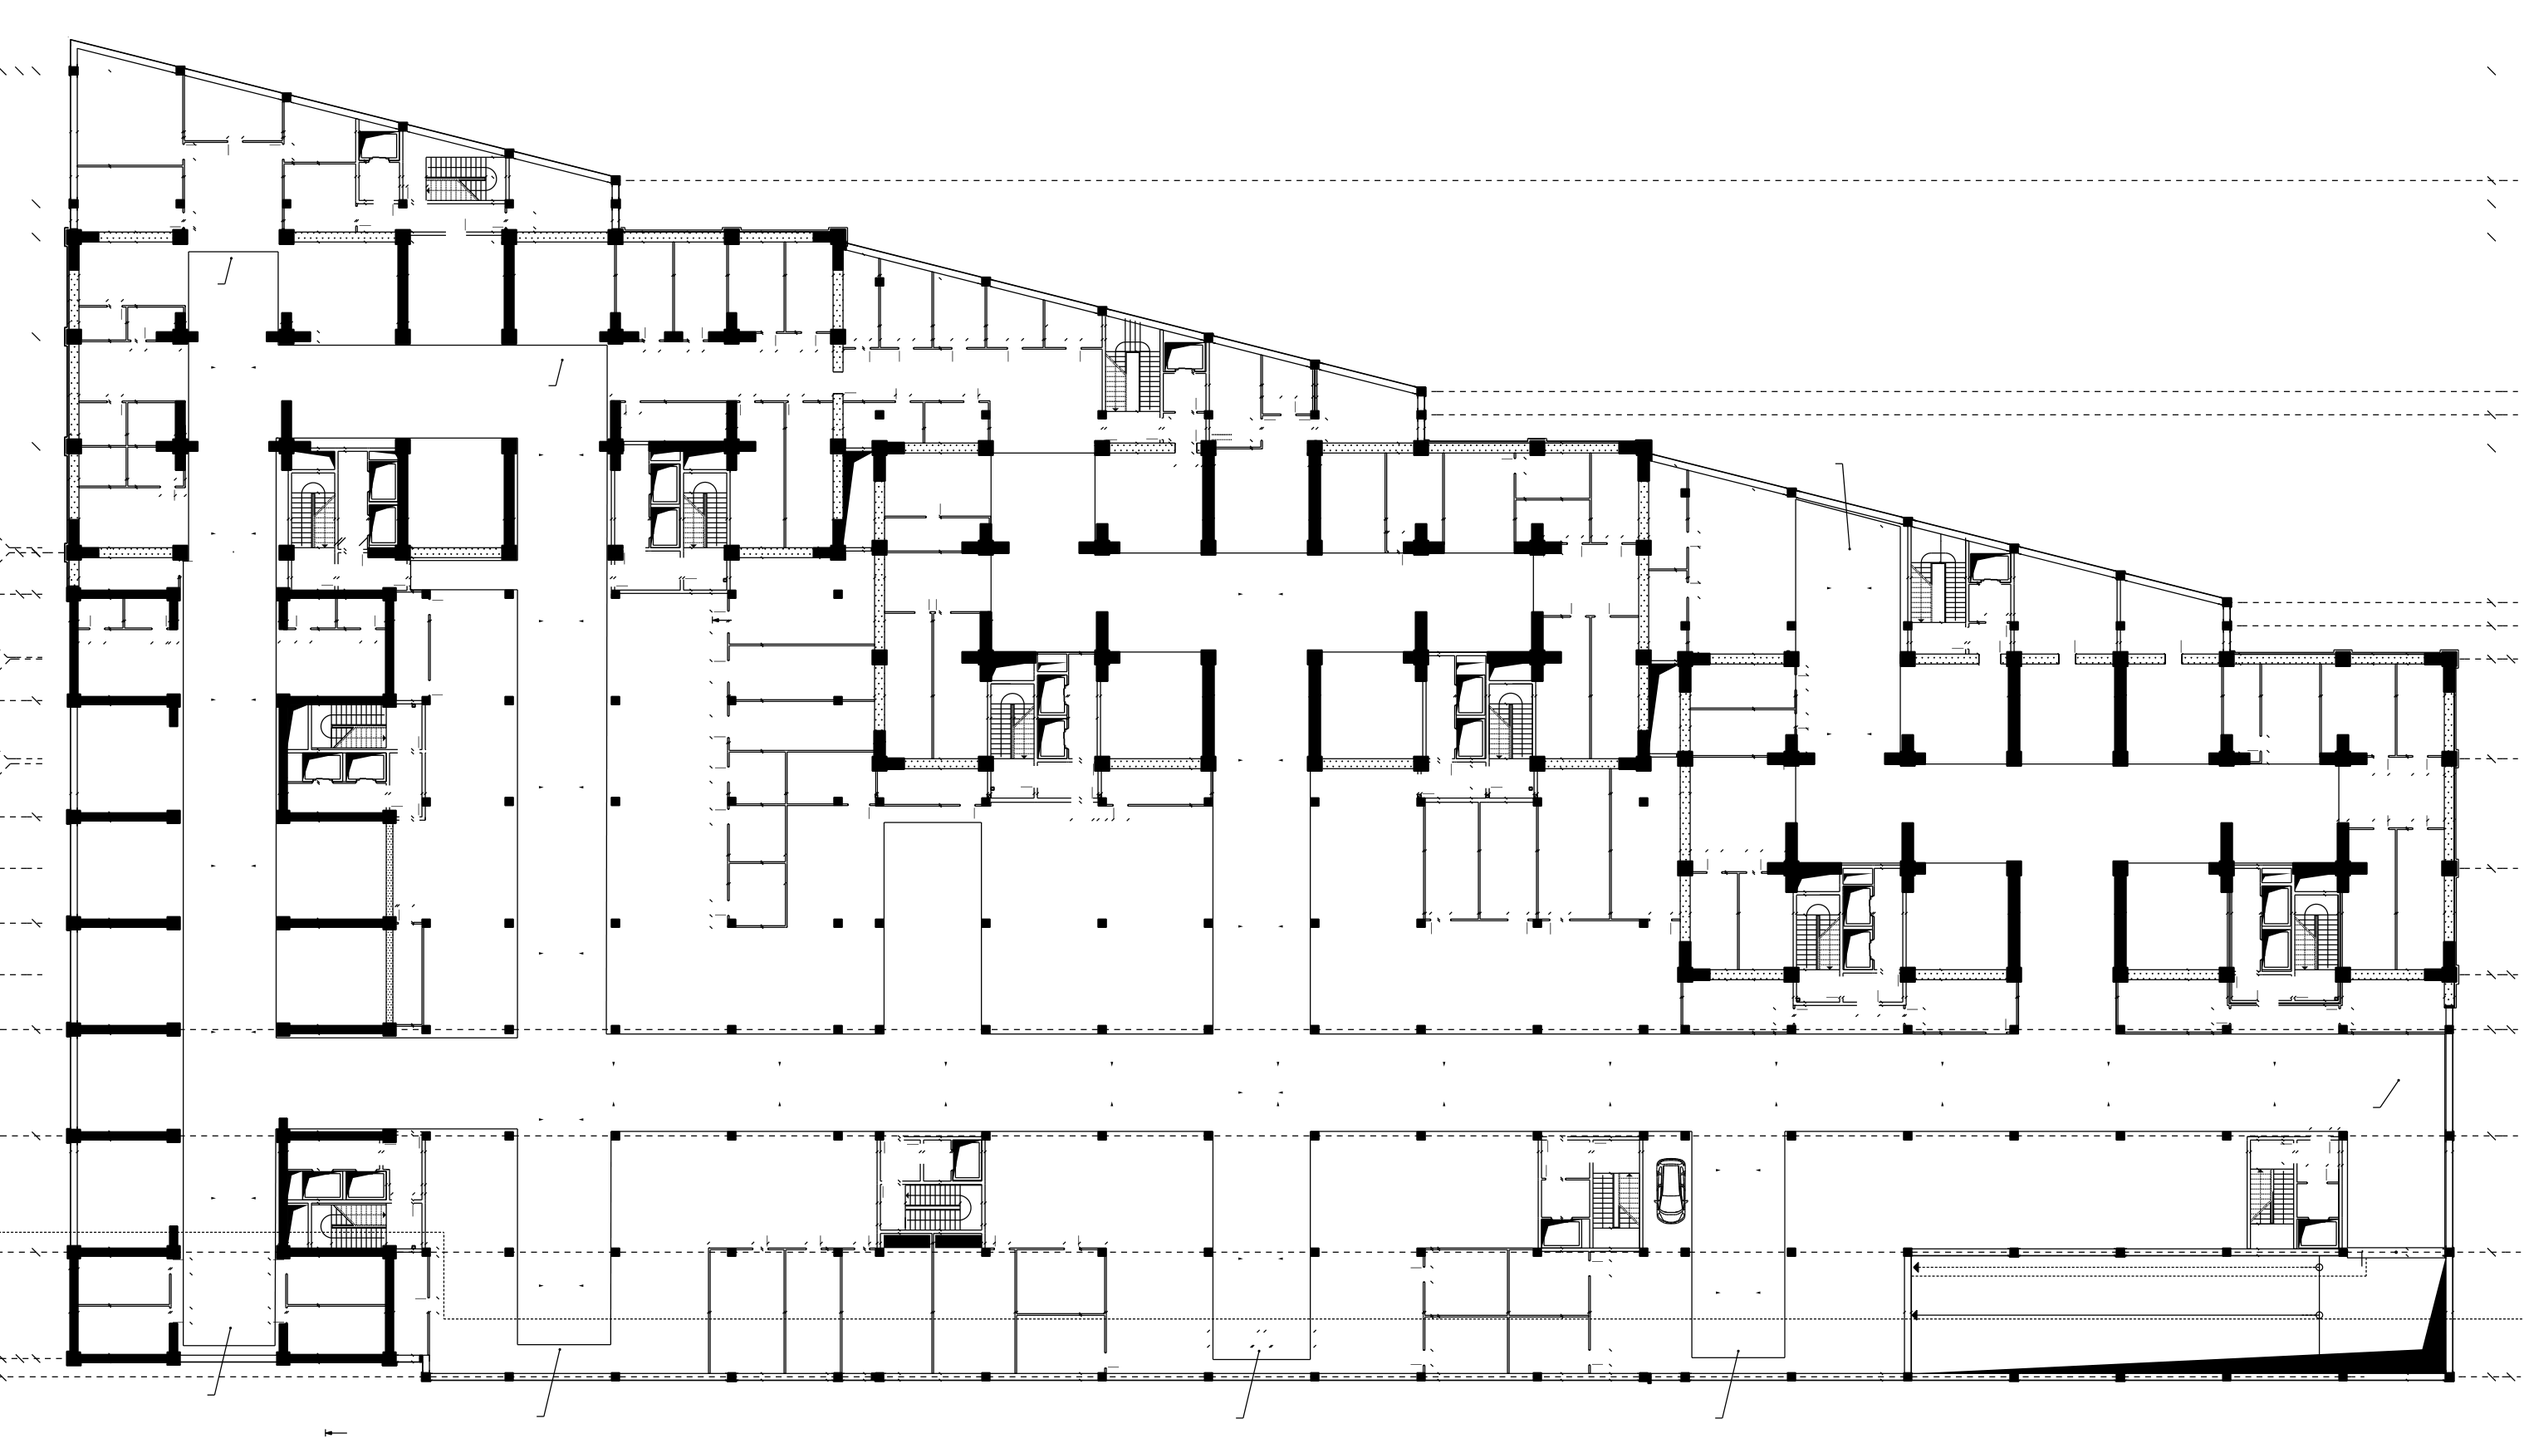
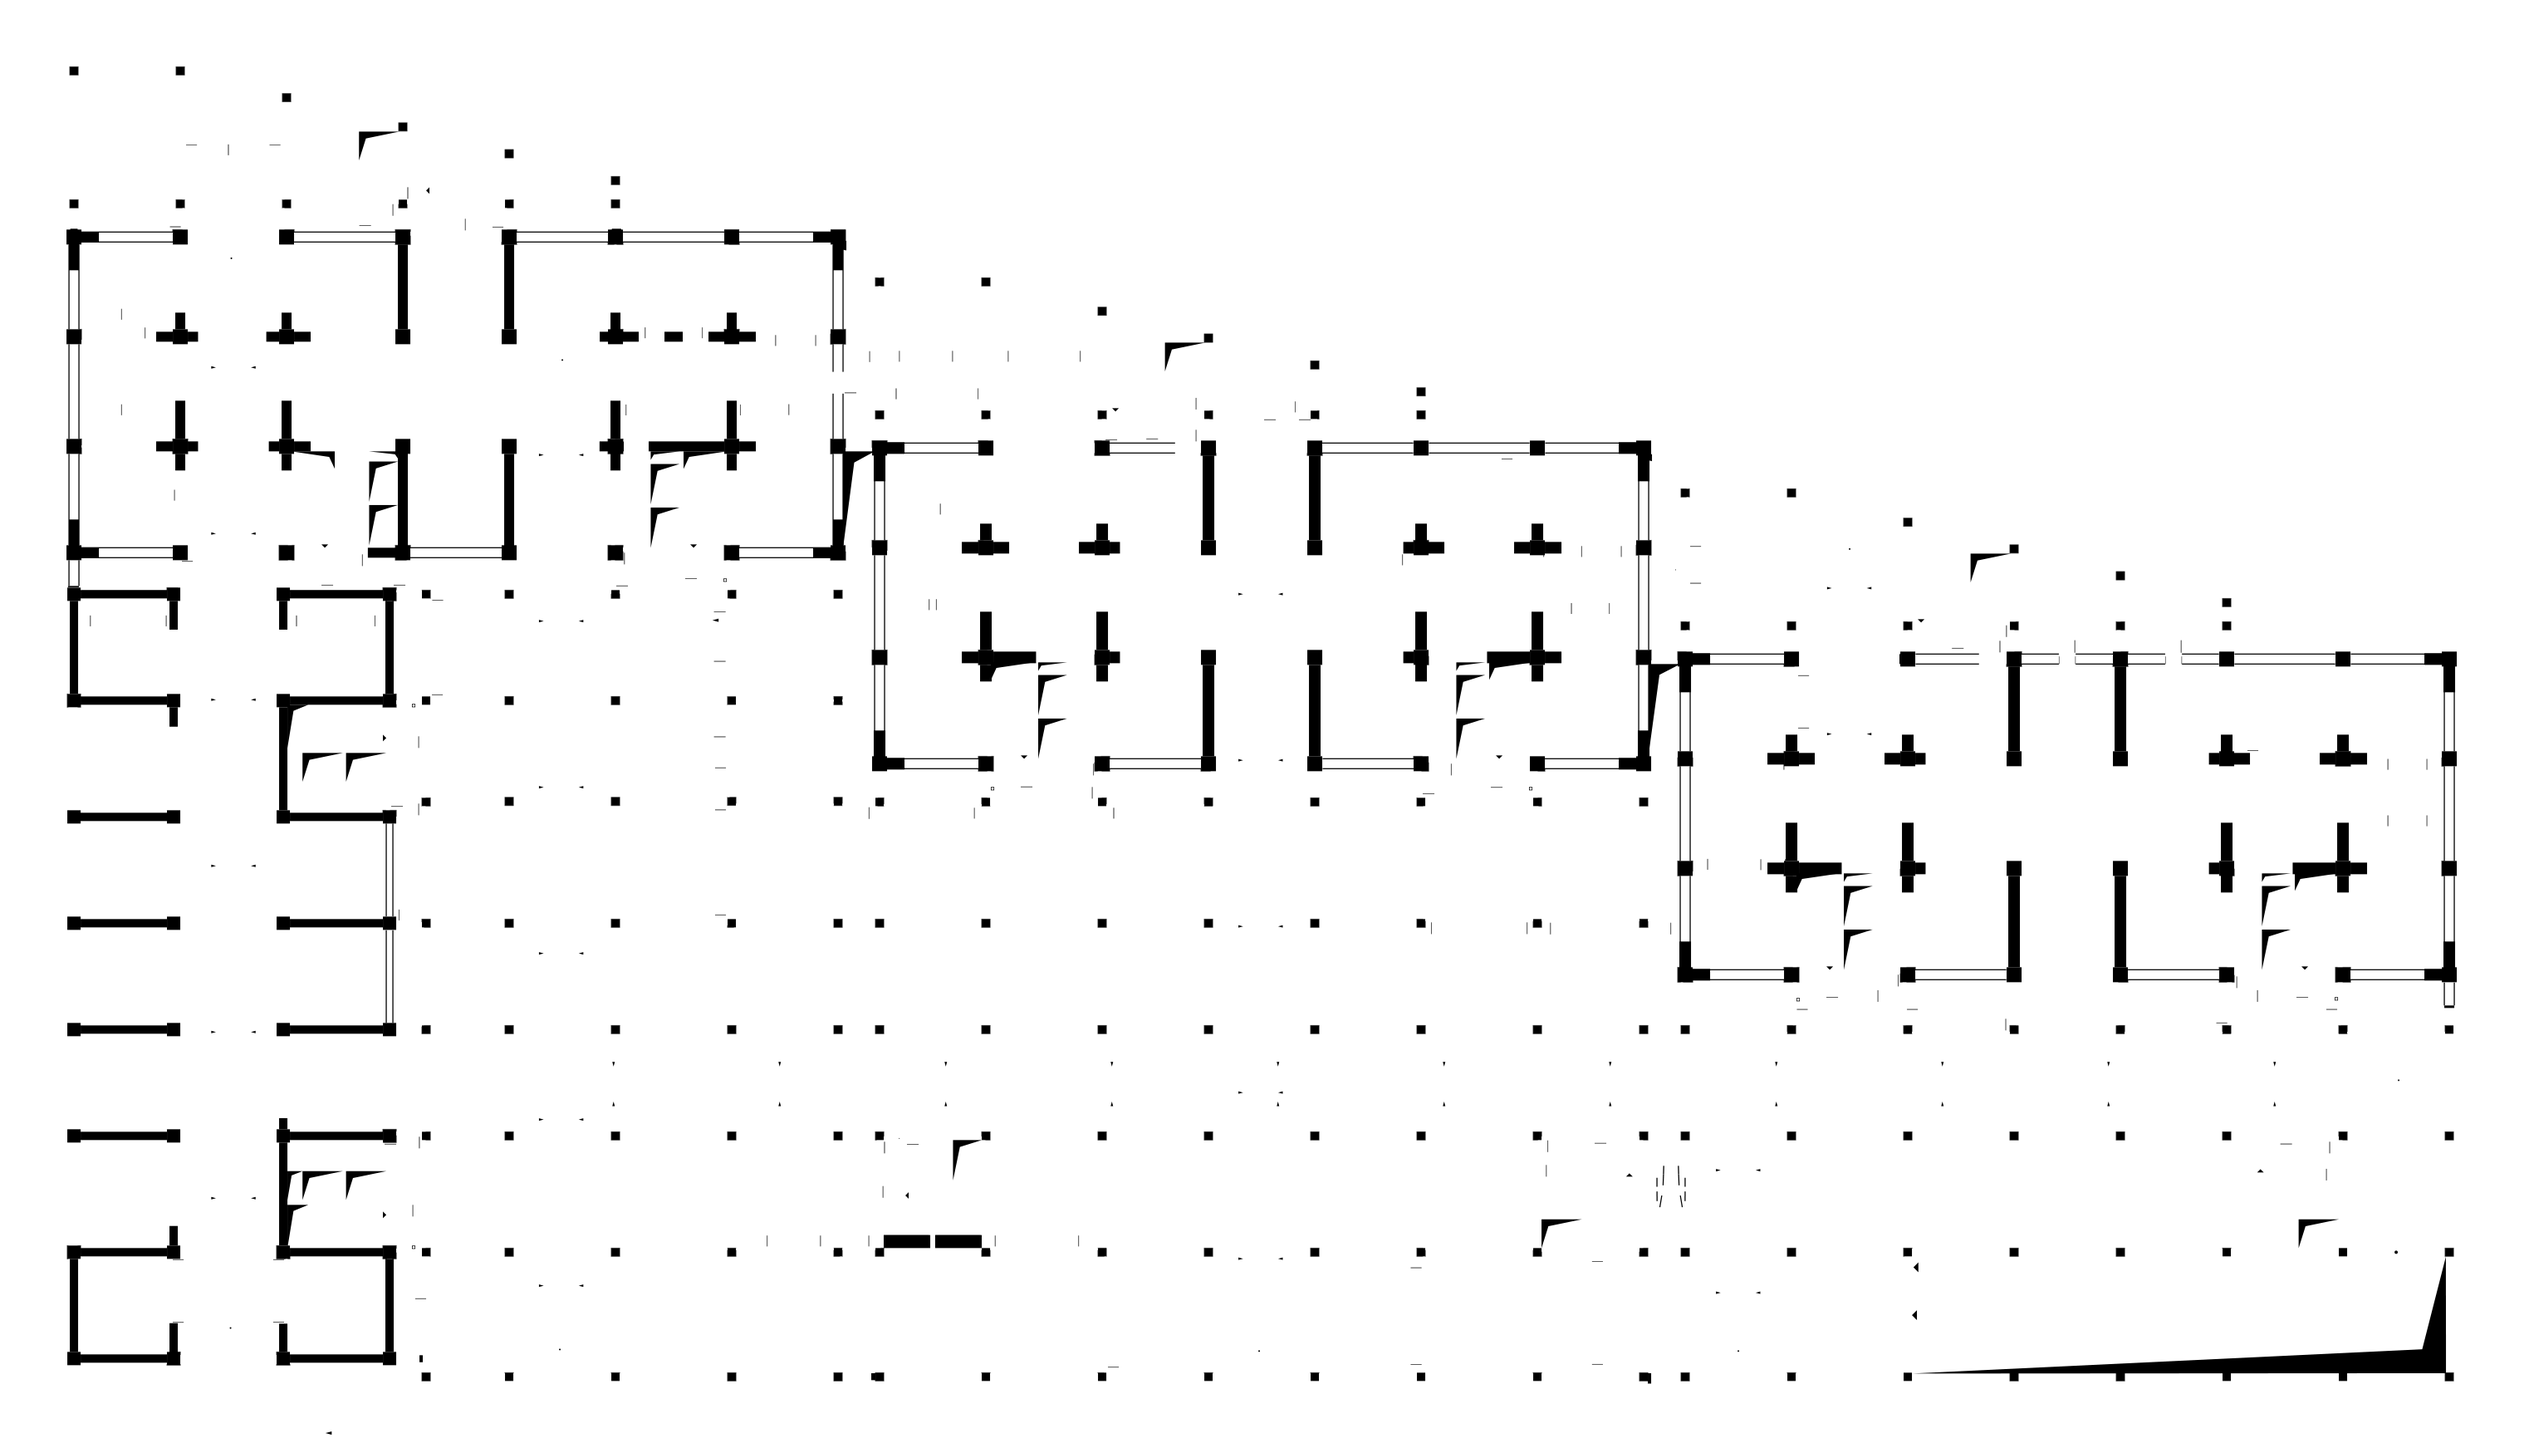
Прогулка по паркингу и коммерции: стены только из реальных элементов чертежа (без пунктира, осей, размеров), витражи — отдельным стеклом только в проёмах, машины на местах по проекту паркинга

diff --git a/site/js/floortour.js b/site/js/floortour.js
@@ -90,8 +90,8 @@
     msg.textContent = `Загружаю: ${L.name}…`; msg.hidden = false;
     F.root.querySelectorAll('[data-l]').forEach((b) => b.classList.toggle('on', b.dataset.l === id));
     const me = F;
-    let plan, maskImg, glassImg = null;
-    try { [plan, maskImg, glassImg] = await Promise.all([loadImg(L.img), loadImg(L.mask), L.glass ? loadImg(L.glass) : null]); } catch (e) { msg.textContent = e.message; return; }
+    let plan, maskImg, glassImg = null, cars = [];
+    try { [plan, maskImg, glassImg, cars] = await Promise.all([loadImg(L.img), loadImg(L.mask), L.glass ? loadImg(L.glass) : null, L.cars ? fetch(L.cars).then((r) => r.json()).catch(() => []) : []]); } catch (e) { msg.textContent = e.message; return; }
     if (F !== me) return;
     const M = readMask(maskImg), cell = L.w / M.W, H = L.height;
     // старая сцена — прочь
@@ -106,10 +106,18 @@
     const fill = new THREE.DirectionalLight(0xffffff, 0.18); fill.position.set(-30, 30, -50); scene.add(fill);
     // стены и колонны
     const list = rects(M.wall, M.W, M.H).map(([x, y, w, h]) => [x * cell, y * cell, (x + w) * cell, (y + h) * cell, 0, H]);
-    const walls = new THREE.Mesh(boxes(list), new THREE.MeshLambertMaterial({ color: under ? 0xa9a7a2 : 0xeeeae3 }));
+    const walls = new THREE.Mesh(boxes(list), new THREE.MeshLambertMaterial({ color: under ? 0xa9a7a2 : 0xeeeae3, side: THREE.DoubleSide }));
     // витрины и стеклянные перегородки: видно, но пройти можно — там двери магазинов
-    if (glassImg) {
-      const G = readMask(glassImg), gl = rects(G.wall, G.W, G.H).map(([x, y, w, h]) => [x * cell, y * cell, (x + w) * cell, (y + h) * cell, 0.05, H - 0.25]);
+    if (glassImg && !under) { // в паркинге витражей нет — белые полоски там это отделка стен
+      const G = readMask(glassImg);
+      // стекло только в проёмах: у стен белые полоски — это отделка, не витраж
+      if (G.W === M.W && G.H === M.H) {
+        const r = 3, near = new Uint8Array(M.W * M.H);
+        for (let y = 0; y < M.H; y++) for (let x = 0; x < M.W; x++) if (M.wall[y * M.W + x])
+          for (let dy = -r; dy <= r; dy++) for (let dx = -r; dx <= r; dx++) { const yy = y + dy, xx = x + dx; if (yy >= 0 && yy < M.H && xx >= 0 && xx < M.W) near[yy * M.W + xx] = 1; }
+        for (let k = 0; k < G.wall.length; k++) if (near[k]) G.wall[k] = 0;
+      }
+      const gl = rects(G.wall, G.W, G.H).map(([x, y, w, h]) => [x * cell, y * cell, (x + w) * cell, (y + h) * cell, 0.05, H - 0.25]);
       const glass = new THREE.Mesh(boxes(gl), new THREE.MeshLambertMaterial({ color: 0x9fd2ec, transparent: true, opacity: 0.32, depthWrite: false }));
       glass.renderOrder = 2; scene.add(glass);
       const frame = rects(G.wall, G.W, G.H).map(([x, y, w, h]) => [x * cell, y * cell, (x + w) * cell, (y + h) * cell, H - 0.3, H - 0.2]);
@@ -128,10 +136,36 @@
       for (let z = 4; z < L.h; z += 7) for (let x = 4; x < L.w; x += 6) { const i = Math.floor(z / cell) * M.W + Math.floor(x / cell); if (!M.wall[i]) lamps.push([x - 0.6, z - 0.06, x + 0.6, z + 0.06, H - 0.06, H - 0.02]); }
       scene.add(new THREE.Mesh(boxes(lamps), lamp));
     }
+    // машины на местах, где они нарисованы в проекте: кузов, кабина со стёклами, колёса
+    if (cars.length) {
+      const palette = [0xf2f2f0, 0x1f2328, 0x8f959c, 0x2a4f8f, 0x9c2b25, 0xc9ccd1, 0x3d4a3a, 0xe7e1d2];
+      const body = [], cab = [], glassC = [], wheel = [];
+      const byCol = palette.map(() => []);
+      cars.forEach(([x, z, horiz], k) => {
+        const Lc = 4.5, Wc = 1.8, hx = horiz ? Lc / 2 : Wc / 2, hz = horiz ? Wc / 2 : Lc / 2;
+        byCol[(k * 7 + Math.floor(x * 3)) % palette.length].push([x - hx, z - hz, x + hx, z + hz, 0.3, 0.95]);
+        const cx = horiz ? Lc * 0.28 : Wc * 0.42, cz = horiz ? Wc * 0.42 : Lc * 0.28;
+        cab.push([x - cx, z - cz, x + cx, z + cz, 0.95, 1.42]);
+        glassC.push([x - cx - 0.02, z - cz - 0.02, x + cx + 0.02, z + cz + 0.02, 1.0, 1.36]);
+        for (const s1 of [-1, 1]) for (const s2 of [-1, 1]) {
+          const wx = horiz ? s1 * Lc * 0.32 : s2 * Wc * 0.42, wz = horiz ? s2 * Wc * 0.42 : s1 * Lc * 0.32;
+          wheel.push([x + wx - 0.33, z + wz - 0.33, x + wx + 0.33, z + wz + 0.33, 0, 0.62]);
+        }
+      });
+      byCol.forEach((list, k) => { if (list.length) scene.add(new THREE.Mesh(boxes(list), new THREE.MeshLambertMaterial({ color: palette[k], side: THREE.DoubleSide }))); });
+      scene.add(new THREE.Mesh(boxes(cab), new THREE.MeshLambertMaterial({ color: 0x2b3036, side: THREE.DoubleSide })));
+      scene.add(new THREE.Mesh(boxes(glassC), new THREE.MeshLambertMaterial({ color: 0x9fc4dd, transparent: true, opacity: 0.55, side: THREE.DoubleSide })));
+      scene.add(new THREE.Mesh(boxes(wheel), new THREE.MeshLambertMaterial({ color: 0x111214, side: THREE.DoubleSide })));
+    }
     // проходимость: стена плюс радиус человека
     const r = Math.ceil(RADIUS / cell), block = new Uint8Array(M.W * M.H);
     for (let y = 0; y < M.H; y++) for (let x = 0; x < M.W; x++) if (M.wall[y * M.W + x])
       for (let dy = -r; dy <= r; dy++) { const yy = y + dy; if (yy < 0 || yy >= M.H) continue; for (let dx = -r; dx <= r; dx++) { const xx = x + dx; if (xx >= 0 && xx < M.W && dx * dx + dy * dy <= r * r) block[yy * M.W + xx] = 1; } }
+    for (const [x, z, horiz] of cars) {
+      const hx = (horiz ? 2.25 : 0.9) + RADIUS, hz = (horiz ? 0.9 : 2.25) + RADIUS;
+      for (let gz = Math.max(0, Math.floor((z - hz) / cell)); gz <= Math.min(M.H - 1, Math.floor((z + hz) / cell)); gz++)
+        for (let gx = Math.max(0, Math.floor((x - hx) / cell)); gx <= Math.min(M.W - 1, Math.floor((x + hx) / cell)); gx++) block[gz * M.W + gx] = 1;
+    }
     Object.assign(F, { scene, L, M, cell, H, block, floor, ceil, target: null, path: null, under });
     // что внутри здания: заливаем снаружи по сетке, где стены «утолщены» на 1,5 м (так закрываются входы и ворота)
     const s = 4, GW = Math.ceil(M.W / s), GH = Math.ceil(M.H / s), coarse = new Uint8Array(GW * GH);

diff --git a/site/js/data.js b/site/js/data.js
@@ -261,11 +261,11 @@ window.YURTA_PROJECTS = [
     // ворота в подземный паркинг −1/−2 — в самом восточном углу
     // Прогулка по этажам целиком — листы рабочего проекта АР (М 1:150): стены и колонны из векторов чертежа
     walk: [
-      { id: 'p2', name: 'Паркинг −2', img: 'img/gold/walk/plan6.jpg', mask: 'img/gold/walk/mask6.png', w: 151.901, h: 87.1, height: 3.6 },
-      { id: 'p1', name: 'Паркинг −1', img: 'img/gold/walk/plan7.jpg', mask: 'img/gold/walk/mask7.png', w: 151.901, h: 87.1, height: 4.2 },
-      { id: 'f1', name: '1 этаж · входы', img: 'img/gold/walk/plan8.jpg', mask: 'img/gold/walk/mask8.png', w: 153.537, h: 89.942, height: 3.9, start: [40, 66.5, 1.57] },
-      { id: 'f2', name: '2 этаж', img: 'img/gold/walk/plan9.jpg', mask: 'img/gold/walk/mask9.png', w: 151.901, h: 87.1, height: 4.5 },
-      { id: 'f3', name: '3 этаж · коммерция', img: 'img/gold/walk/plan10.jpg', mask: 'img/gold/walk/mask10.png', w: 151.87, h: 87.101, height: 3.9, start: [70, 40, 1.57] },
+      { id: 'p2', name: 'Паркинг −2', img: 'img/gold/walk/plan6.jpg', mask: 'img/gold/walk/mask6.png', glass: 'img/gold/walk/glass6.png', cars: 'img/gold/walk/cars6.json', w: 151.901, h: 87.1, height: 3.6 },
+      { id: 'p1', name: 'Паркинг −1', img: 'img/gold/walk/plan7.jpg', mask: 'img/gold/walk/mask7.png', glass: 'img/gold/walk/glass7.png', cars: 'img/gold/walk/cars7.json', w: 151.901, h: 87.1, height: 4.2 },
+      { id: 'f1', name: '1 этаж · входы', img: 'img/gold/walk/plan8.jpg', mask: 'img/gold/walk/mask8.png', glass: 'img/gold/walk/glass8.png', w: 153.537, h: 89.942, height: 3.9, start: [40, 66.5, 1.57] },
+      { id: 'f2', name: '2 этаж', img: 'img/gold/walk/plan9.jpg', mask: 'img/gold/walk/mask9.png', glass: 'img/gold/walk/glass9.png', w: 151.901, h: 87.1, height: 4.5 },
+      { id: 'f3', name: '3 этаж · коммерция', img: 'img/gold/walk/plan10.jpg', mask: 'img/gold/walk/mask10.png', glass: 'img/gold/walk/glass10.png', w: 151.87, h: 87.101, height: 3.9, start: [70, 40, 1.57] },
     ],
     ramps: [{ x0: 74, y0: 0, x1: 143, y1: 6.5, hW: 9.4, hE: 5.2, gate: { face: 'east', h: 3.8, sign: '−1 −2' } }], // ворота — на восточном торце
     // Второй въезд в паркинг — с ул. Шабдан баатыра у блока Б (по ГП: между местами 67 и 68)
